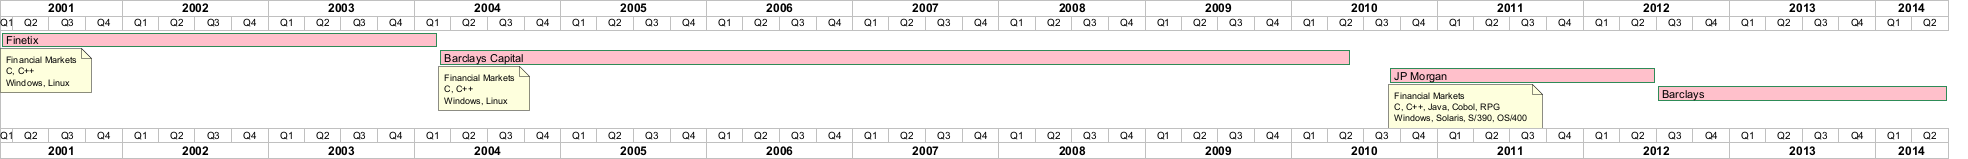
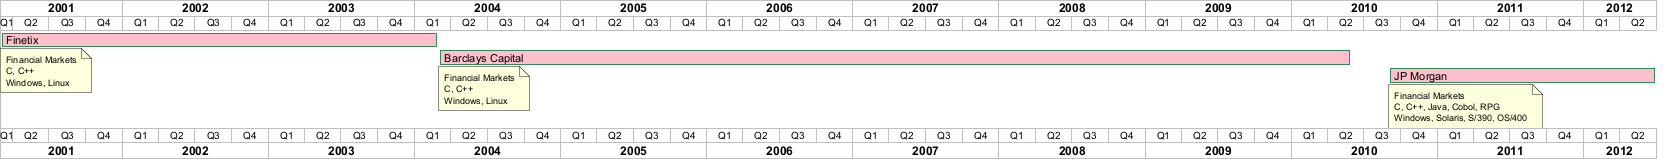
add career3

diff --git a/README.md b/README.md
@@ -2,4 +2,5 @@
 
 ![Education](education.png)
 ![Early career](career1.png)
-![Mid career](career2.png)
+![Mid career1](career2.png)
+![Mid career2](career3.png)
